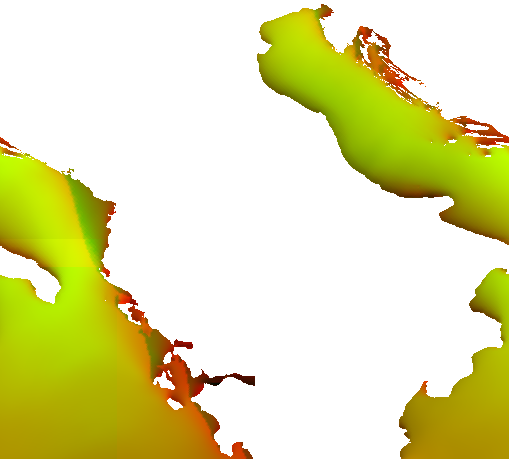
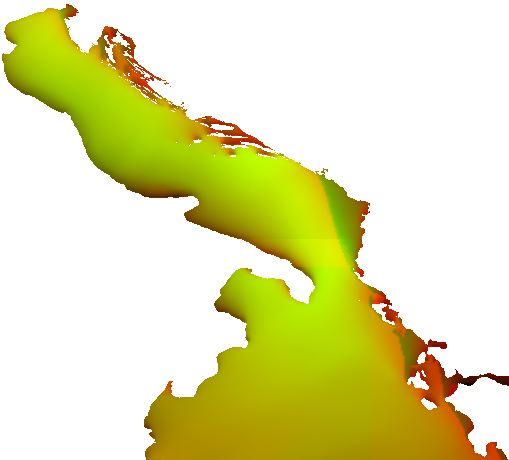
service worker update

diff --git a/istorm/temporary-experiments/WEBGL-WIND/data/newprepareOK.js b/istorm/temporary-experiments/WEBGL-WIND/data/newprepareOK.js
@@ -1,0 +1,95 @@
+function normalize(arr) {
+    return arr.map(function(item) {
+        if (item == "NaN")
+            return null
+        return item
+    })
+  }
+  function getMax(arr) {
+      let len = arr.length;
+      let max = -Infinity;
+  
+      while (len-- >= 0) {
+          max = arr[len] > max && arr[len] != null ? arr[len] : max;
+          //console.log(max)
+      }
+      return max;
+  }
+  function getMin(arr) {
+      let len = arr.length;
+      let min = +Infinity;
+  
+      while (len-- >= 0) {
+        min = arr[len] < min && arr[len] != null ? arr[len] : min;
+        //console.log(min)
+      }
+      return min;
+  }
+const PNG = require('pngjs').PNG;
+const fs = require('fs');
+
+const data = JSON.parse(fs.readFileSync('TMES.json'));
+const name = process.argv[2];
+let u = data[0];
+let v = data[1];
+
+u.data = normalize(u.data)
+v.data = normalize(v.data)
+
+u.minimum = getMin(u.data)
+u.maximum = getMax(u.data)
+v.minimum = getMin(v.data)
+v.maximum = getMax(v.data)
+
+console.log(u.minimum, u.maximum, v.minimum, v.maximum)
+
+const width = u.header.nx;
+const height = u.header.ny;
+// const height = u.header.ny - 1;
+
+
+//console.log(u)
+console.log(width, height)
+
+const png = new PNG({
+    colorType: 2,
+    filterType: 4,
+    width: width,
+    height: height
+});
+
+for (let y = 0; y < height; y++) {
+    for (let x = 0; x < width; x++) {
+        const i = (y * width + x) * 4;
+        const k = y * width + x;
+        // const k = y * width + Math.floor((x + width / 2)) % width;
+      // console.log('height = ' + height +' width = ' + width)
+      // console.log('y = ' + y +' x = ' + x)
+      // console.log('i = ' + i)
+      //   console.log('k = ' + k)
+        if(u.data[k] && v.data[k]) {
+            png.data[i + 0] = Math.floor(255 * (u.data[k] - u.minimum) / (u.maximum - u.minimum));
+            png.data[i + 1] = Math.floor(255 * (v.data[k] - v.minimum) / (v.maximum - v.minimum));
+            png.data[i + 2] = 0;
+            png.data[i + 3] = 255;
+        }
+    }
+}
+
+png.pack().pipe(fs.createWriteStream(name + '.png'));
+
+fs.writeFileSync(name + '.json', JSON.stringify({
+    source: 'http://nomads.ncep.noaa.gov',
+    date: u.header.refTime,
+    width: width,
+    height: height,
+    uMin: u.minimum,
+    uMax: u.maximum,
+    vMin: v.minimum,
+    vMax: v.maximum
+}, null, 2) + '\n');
+
+function formatDate(date, time) {
+    return date.substr(0, 4) + '-' + date.substr(4, 2) + '-' + date.substr(6, 2) + 'T' +
+        (time < 10 ? '0' + time : time) + ':00Z';
+}

diff --git a/istorm/app/components/Map/GLLayerTest.js b/istorm/app/components/Map/GLLayerTest.js
@@ -120,7 +120,8 @@ class GLLayerTest extends BaseControl {
   calcNumParticles(width, height) {
     console.log('calcNumParticles')
     return Math.min(Math.floor(width / 10 * height / 10),
-      3000);
+      3000
+    );
   }
 
 
@@ -137,7 +138,7 @@ class GLLayerTest extends BaseControl {
     console.log(data)
 
     // let resolution = map.getView().getResolution();
-    let resolution = 1548.0;
+    let resolution = 1024.0;
     let scale = data.resolution / resolution;
     // let scale = 1;
     const map = this._context.map;

diff --git a/istorm/app/containers/App/reducer.js b/istorm/app/containers/App/reducer.js
@@ -30,7 +30,7 @@ export const initialState = {
     latitude: 45.43713, 
     zoom: 5,
     bearing: 0,
-    pitch: 30
+    pitch: 0
   },
   style: {
     version: 8,
